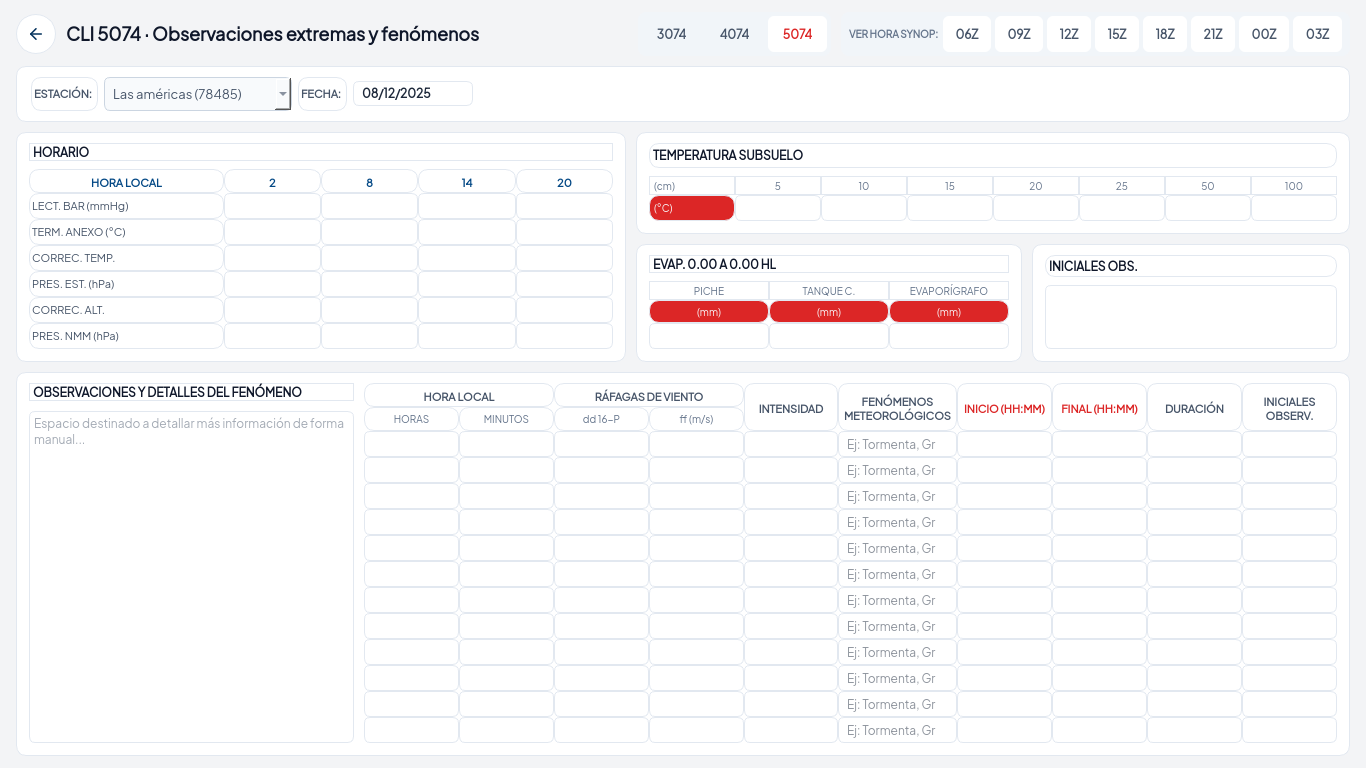
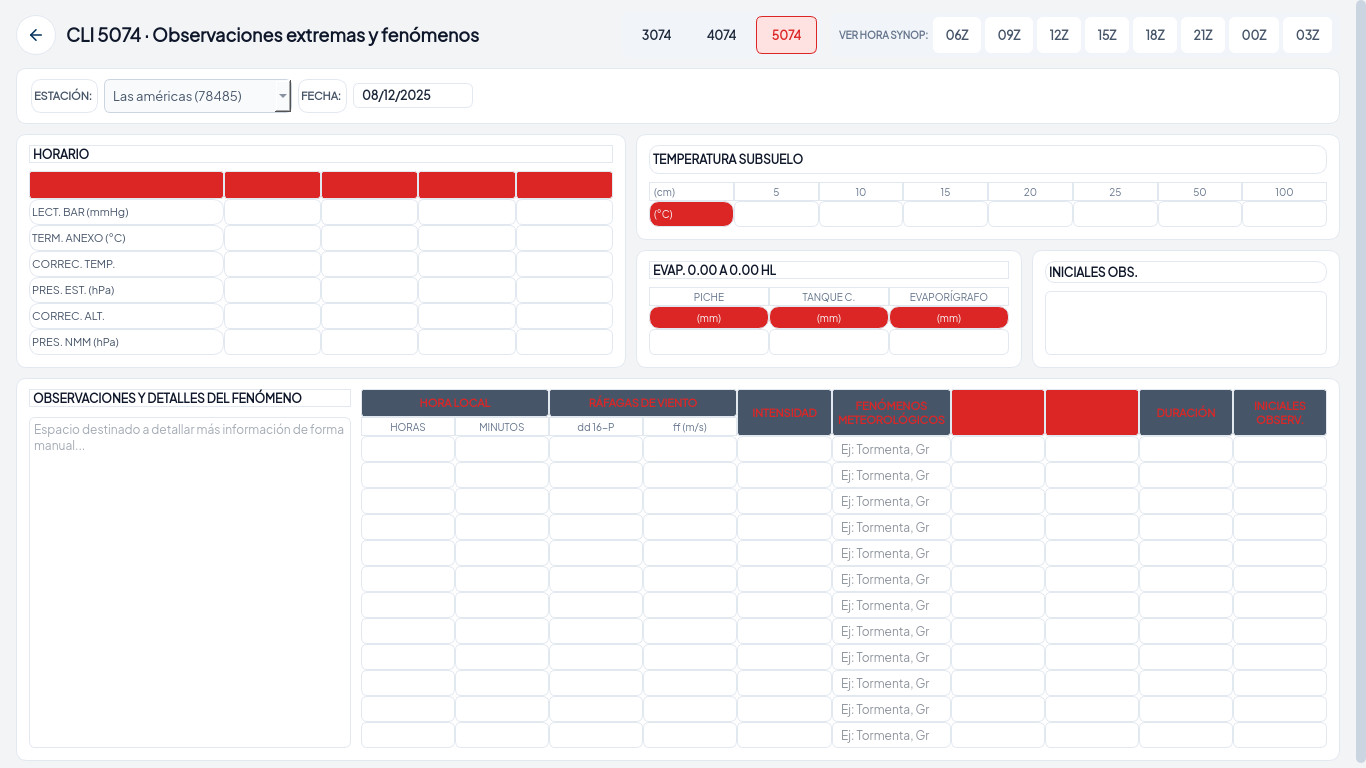
feat(cli): identidad por módulo en encabezados, filas y pestañas
Correcciones del dueño sobre el 3074 y el 4074:

- **3074: filas de hora principal en azul.** Las filas 2, 5, 8, 11, 14, 17, 20
  y 23 llevan `$acento_suave` de fondo, y el resto queda blanco. Antes el tinte
  era `$acento_fondo`, tan cerca del blanco que no se distinguía.
- **Fuera los contornos azules** de las celdas de humedad y temperatura: eran
  bordes `$acento` sobre celdas de sólo lectura. Ahora borde neutro; el foco
  conserva el acento.
- **Encabezados con fondo por módulo y letra legible**: 3074 tinte azul,
  4074 tinte verde, 5074 tinte rojo, cada uno con su texto fuerte
  (`$acento_texto`, `$ok_texto`, `$error_fuerte`).
- **Pestañas de módulo con su color principal**: cada botón declara su módulo
  por propiedad y resalta con su familia cuando está activo.

Dos defectos propios en el camino: una expresión regular convirtió
`$acento_suave` en `$bordeuave` y dejó el 3074 sin compilar —lo cazó el import,
no un test— y la plantilla del encabezado llegaba sin resolver, que sí cazó un
test.

849 passed, EXIT=0.

Changed region(s): [[0.0, 0.0, 1.0, 1.0], [0.0307, 0.0312, 0.369, 0.0625]]

diff --git a/oms_ui/pages/cli3074.py b/oms_ui/pages/cli3074.py
@@ -95,12 +95,13 @@ FENOMENOS: tuple[tuple[str, str, str], ...] = (
 
 _MAIN_ROW_TINT = "$acento_fondo"      # filas de la hora principal
 _MAIN_STICKY_TINT = "$acento_suave"   # celdas de número fijo
-#: owner round 8: EVERY group header in the same muted slate as HUMEDAD.
-#: Cabecera de grupo: banda oscura con texto claro en ambos temas (S5).
+#: Encabezado de grupo: fondo tintado de la identidad del módulo y letra
+#: oscura, para que se lea en los dos temas (forma del mockup).
 _HEADER_QSS = (
-    "background-color: $acento_suave; color: $acento_texto; font-weight: 700;"
+    "background-color: {color}; color: {text}; font-weight: 800;"
     "font-size: 11px; padding: 6px 4px; border-radius: 3px;"
 )
+_DEFAULT = {"color": "$acento_suave", "text": "$acento_texto"}
 #: Sub-encabezado: texto gris, sin relleno.
 _SUB_HEADER_QSS = (
     "background-color: transparent; color: $suave_alt; font-weight: 600;"
@@ -116,12 +117,12 @@ _RO_QSS = (
     "color: $acento_texto; font-weight: bold; font-size: 12px; padding: 3px 4px; }"
 )
 _MAIN_INPUT_QSS = (
-    "QLineEdit { background-color: $acento_fondo; border: 1px solid $acento_suave;"
+    "QLineEdit { background-color: $acento_suave; border: 1px solid $borde;"
     "color: $texto; font-size: 12px; padding: 3px 4px; }"
     "QLineEdit:focus { border-color: $acento; background-color: $superficie; }"
 )
 _MAIN_RO_QSS = (
-    "QLineEdit { background-color: $acento_suave; border: 1px solid $acento;"
+    "QLineEdit { background-color: $acento_suave; border: 1px solid $borde;"
     "color: $acento_texto; font-weight: bold; font-size: 12px; padding: 3px 4px; }"
 )
 _CHECKBOX_QSS = (
@@ -150,11 +151,11 @@ QLineEdit[row="sub"]:focus { border-color: $acento; background-color: $acento_fo
 QLineEdit[row="sub"][ro="true"] { background-color: $acento_fondo;
     border: 1px solid $acento_suave; color: $acento_texto; font-weight: bold;
     font-size: 12px; padding: 3px 4px; }
-QLineEdit[row="main"] { background-color: $acento_fondo; border: 1px solid $acento_suave;
+QLineEdit[row="main"] { background-color: $acento_suave; border: 1px solid $borde;
     color: $texto; font-size: 12px; padding: 3px 4px; }
 QLineEdit[row="main"]:focus { border-color: $acento; background-color: $superficie; }
-QLineEdit[row="main"][ro="true"] { background-color: $acento_suave;
-    border: 1px solid $acento; color: $acento_texto; font-weight: bold;
+QLineEdit[row="main"][ro="true"] { background-color: $acento_fondo;
+    border: 1px solid $borde; color: $acento_texto; font-weight: bold;
     font-size: 12px; padding: 3px 4px; }
 /* base rules first, attribute overrides after: Qt matches the subcontrol
    rules only when the base `::indicator` block exists */
@@ -325,12 +326,14 @@ class Cli3074View(QWidget):
         ):
             active = module_key == self.MODULE_KEY
             tab = QPushButton(label)
+            tab.setProperty("mod", module_key)
             tab.setStyleSheet(_qss(
-                f"QPushButton {{ background-color: {_qss('$superficie') if active else 'transparent'};"
-                f"color: {_qss('$acento_texto') if active else _qss('$suave')}; border: none;"
-                "border-radius: 6px; padding: 6px 14px; font-size: 12px;"
-                "font-weight: bold; min-height: 24px; }"
-                "QPushButton:hover { background-color: $acento_fondo; }"
+                "QPushButton { border: 1px solid transparent;"
+                " border-radius: 6px; padding: 6px 14px; font-size: 12px;"
+                " font-weight: 800; min-height: 24px; }"
+                "QPushButton[mod='cli3074'] { background-color: $acento_fondo;"
+                " border-color: $acento; color: $acento_texto; }"
+                "QPushButton:hover { border-color: $acento; }"
             ))
             tab.setCursor(Qt.CursorShape.PointingHandCursor)
             if not active:
@@ -442,7 +445,7 @@ class Cli3074View(QWidget):
             label = QLabel(text)
             label.setAlignment(Qt.AlignmentFlag.AlignCenter)
             label.setWordWrap(True)
-            label.setStyleSheet(_qss(_HEADER_QSS))
+            label.setStyleSheet(_qss(_HEADER_QSS.format(**_DEFAULT)))
             grid.addWidget(label, 0, col, rowspan, span)
 
         group_header(1, 3, "PRESIÓN (hPa)", "$banda")

diff --git a/oms_ui/pages/cli5074.py b/oms_ui/pages/cli5074.py
@@ -104,15 +104,13 @@ _SECTION_QSS = (
 _LABEL_QSS = (
     "color: $suave; font-weight: 600; font-size: 11px; background: transparent;"
 )
-#: El 5074 mantiene su identidad roja: el encabezado es tinte de la familia
-#: de error, no el acento global. Es el nivel 2 de la jerarquía.
-#: Encabezado de grupo: texto de color sobre la tarjeta, sin caja (mockup).
-#: `{color}` lo pone cada grupo; por defecto el acento.
+#: Encabezado de grupo: fondo tintado de la identidad del módulo y letra
+#: oscura, para que se lea en los dos temas (forma del mockup).
 _HEADER_QSS = (
-    "background-color: transparent; color: {color}; font-weight: 700;"
-    "font-size: 11px; padding: 6px 4px 2px 4px;"
+    "background-color: {color}; color: {text}; font-weight: 800;"
+    "font-size: 11px; padding: 6px 4px; border-radius: 3px;"
 )
-_DEFAULT = "$acento"
+_DEFAULT = {"color": "$error_suave", "text": "$error_fuerte"}
 #: Sub-encabezado: texto gris, sin relleno.
 _SUB_HEADER_QSS = (
     "background-color: transparent; color: $suave_alt; font-weight: 600;"
@@ -317,12 +315,12 @@ class Cli5074View(QWidget):
         card_layout.addLayout(grid)
         corner = QLabel("HORA LOCAL")
         corner.setAlignment(Qt.AlignmentFlag.AlignCenter)
-        corner.setStyleSheet(_qss(_HEADER_QSS.format(color="$acento")))
+        corner.setStyleSheet(_qss(_HEADER_QSS.format(color="$error_fuerte", text="$error_fuerte")))
         grid.addWidget(corner, 0, 0)
         for col_index, row in enumerate(_HOURLY_ROWS):
             head = QLabel(str(row))
             head.setAlignment(Qt.AlignmentFlag.AlignCenter)
-            head.setStyleSheet(_qss(_HEADER_QSS.format(color="$acento")))
+            head.setStyleSheet(_qss(_HEADER_QSS.format(color="$error_fuerte", text="$error_fuerte")))
             grid.addWidget(head, 0, 1 + col_index)
         self.hour_inputs: dict[int, dict[str, QLineEdit]] = {}
         for row_index, (field, label) in enumerate(_HOURLY_FIELDS):
@@ -434,7 +432,7 @@ class Cli5074View(QWidget):
             header = QLabel(text)
             header.setAlignment(Qt.AlignmentFlag.AlignCenter)
             header.setWordWrap(True)
-            header.setStyleSheet(_qss(_HEADER_QSS.format(color=color)))
+            header.setStyleSheet(_qss(_HEADER_QSS.format(color=color, text="$error_fuerte")))
             # sin subtítulo el header abarca ambas filas: sin hueco debajo
             feno_grid.addWidget(header, 0, col, 2 if no_sub else 1, span)
             for offset, (field, sub) in enumerate(fields):
@@ -467,12 +465,14 @@ class Cli5074View(QWidget):
         ):
             active = module_key == self.MODULE_KEY
             tab = QPushButton(label)
+            tab.setProperty("mod", module_key)
             tab.setStyleSheet(_qss(
-                f"QPushButton {{ background-color: {_qss('$superficie') if active else 'transparent'};"
-                f"color: {_qss('$error_fuerte') if active else _qss('$suave')}; border: none;"
-                "border-radius: 6px; padding: 6px 14px; font-size: 12px;"
-                "font-weight: bold; min-height: 24px; }"
-                "QPushButton:hover { background-color: $ok_fondo; }"
+                "QPushButton { border: 1px solid transparent;"
+                " border-radius: 6px; padding: 6px 14px; font-size: 12px;"
+                " font-weight: 800; min-height: 24px; }"
+                "QPushButton[mod='cli5074'] { background-color: $error_suave;"
+                " border-color: $error_fuerte; color: $error_fuerte; }"
+                "QPushButton:hover { border-color: $error_fuerte; }"
             ))
             tab.setCursor(Qt.CursorShape.PointingHandCursor)
             if not active:

diff --git a/oms_ui/pages/cli4074.py b/oms_ui/pages/cli4074.py
@@ -107,13 +107,13 @@ INPUT_QSS = (
     "color: $texto; font-size: 12px; padding: 3px 4px; }"
     "QLineEdit:focus { border-color: $acento; background-color: $acento_fondo; }"
 )
-#: Encabezado de grupo: texto de color sobre la tarjeta, sin caja (mockup).
-#: `{color}` lo pone cada grupo; por defecto el acento.
+#: Encabezado de grupo: fondo tintado de la identidad del módulo y letra
+#: oscura, para que se lea en los dos temas (forma del mockup).
 _HEADER_QSS = (
-    "background-color: transparent; color: {color}; font-weight: 700;"
-    "font-size: 11px; padding: 6px 4px 2px 4px;"
+    "background-color: {color}; color: {text}; font-weight: 800;"
+    "font-size: 11px; padding: 6px 4px; border-radius: 3px;"
 )
-_DEFAULT = "$acento"
+_DEFAULT = {"color": "$ok_fondo", "text": "$ok_texto"}
 #: Sub-encabezado: texto gris, sin relleno.
 _SUB_HEADER_QSS = (
     "background-color: transparent; color: $suave_alt; font-weight: 600;"
@@ -236,7 +236,7 @@ class Cli4074View(QWidget):
             header = QLabel(text)
             header.setAlignment(Qt.AlignmentFlag.AlignCenter)
             header.setWordWrap(True)
-            header.setStyleSheet(_qss(_HEADER_QSS.format(color=color)))
+            header.setStyleSheet(_qss(_HEADER_QSS.format(color=color, text="$ok_texto")))
             grid.addWidget(header, 0, at_col, 2, 1)  # full header height
 
         def group_header(at_col: int, text: str, color: str,
@@ -244,7 +244,7 @@ class Cli4074View(QWidget):
             header = QLabel(text)
             header.setAlignment(Qt.AlignmentFlag.AlignCenter)
             header.setWordWrap(True)
-            header.setStyleSheet(_qss(_HEADER_QSS.format(color=color)))
+            header.setStyleSheet(_qss(_HEADER_QSS.format(color=color, text="$ok_texto")))
             grid.addWidget(header, 0, at_col, 1, span)
             for offset, (field, sub) in enumerate(fields):
                 if field in TOTAL_FIELDS:  # full height + emerald, like N
@@ -332,12 +332,14 @@ class Cli4074View(QWidget):
         ):
             active = module_key == self.MODULE_KEY
             tab = QPushButton(label)
+            tab.setProperty("mod", module_key)
             tab.setStyleSheet(_qss(
-                f"QPushButton {{ background-color: {_qss('$superficie') if active else 'transparent'};"
-                f"color: {_qss('$acento_texto') if active else _qss('$suave')}; border: none;"
-                "border-radius: 6px; padding: 6px 14px; font-size: 12px;"
-                "font-weight: bold; min-height: 24px; }"
-                "QPushButton:hover { background-color: $acento_fondo; }"
+                "QPushButton { border: 1px solid transparent;"
+                " border-radius: 6px; padding: 6px 14px; font-size: 12px;"
+                " font-weight: 800; min-height: 24px; }"
+                "QPushButton[mod='cli4074'] { background-color: $ok_fondo;"
+                " border-color: $ok; color: $ok_texto; }"
+                "QPushButton:hover { border-color: $ok; }"
             ))
             tab.setCursor(Qt.CursorShape.PointingHandCursor)
             if not active:
